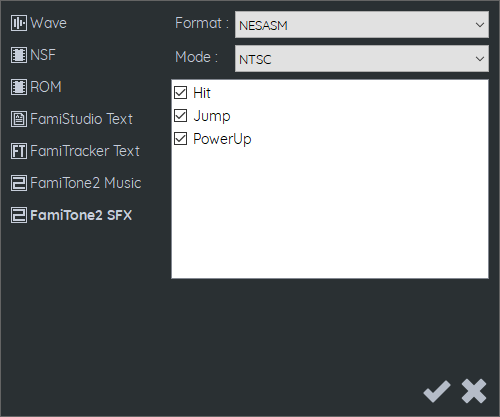
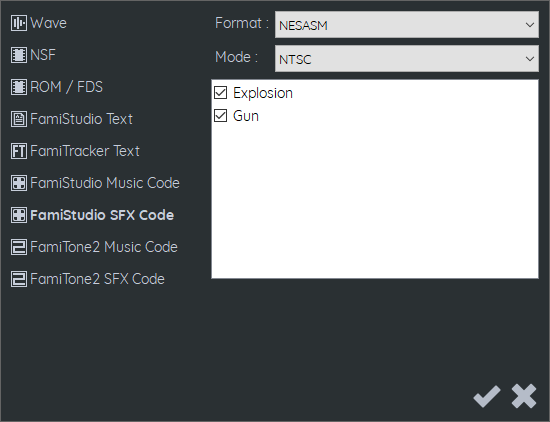
Doc update for 2.2.0.

Changed region(s): [[0.0, 0.0, 0.99, 0.6859], [0.0, 0.0312, 0.15, 0.1559], [0.84, 0.9041, 0.99, 0.9664]]

diff --git a/Docs/docs/importexport.md b/Docs/docs/importexport.md
@@ -7,7 +7,8 @@ The export dialog is access through the main toolbar.
 Only a single song can be exported at a time. You can choose the sample rate, it is recommended to stick to 44.1KHz if you want the sound to be exactly as you hear it in FamiStudio. Lower sample rate might lack high frequencies.
 
 The song can be exported in one of two modes:
-* Play Once : Will play the song until the end, ignoring the loop point.
+
+* Play N Times: Will play the song a specified number of times.
 * Duration : Will loop though the song for the specified number of seconds.
 
 ![](images/ExportWav.png#center)
@@ -24,15 +25,19 @@ Song that do not use any audio expansion can export as PAL and Dual mode, where 
 
 The maximum song size is approximately 28KB minus the size of the DPCM samples used. Note that this size are not printed anywhere and are not related to the size of the *.fms file. Best to simply try and see if it works.
 
-## ROM
+## ROM / FDS Disk
 
-Song(s) can be exported to a NES ROM file to play if back on an emulator or on actual hardware. The current iteration uses [Mapper 31](https://wiki.nesdev.com/w/index.php/INES_Mapper_031) which is supported by most emulators and the [Everdrive N8](https://krikzz.com/store/home/31-everdrive-n8-nes.html). You can then copy the ROM to an SD card and listen to it on actual hardware. Note that expansion audio is not supported with this mapper.
+Song(s) can be exported to a NES ROM file or a Famicom Disk System disk to play if back on an emulator or on actual hardware. 
+
+For ROM export, the current iteration uses [Mapper 31](https://wiki.nesdev.com/w/index.php/INES_Mapper_031) which is supported by most emulators and the [Everdrive N8](https://krikzz.com/store/home/31-everdrive-n8-nes.html). You can then copy the ROM to an SD card and listen to it on actual hardware. Note that expansion audio is not supported with this mapper.
 
 ![](images/Rom.png#center)
 
-The user interface is very simple, pressing left/right on the D-PAD will change the current track. Track/song names will be truncated to 28 characters.
+The user interface is very simple, pressing left/right on the D-PAD will change the current track. Track/song names will be truncated to 28 characters. For something a lot more customizable, check out [EZNSF](https://github.com/bbbradsmith/eznsf) by Brad Smith.
 
-For something a lot more customizable, check out [EZNSF](https://github.com/bbbradsmith/eznsf) by Brad Smith.
+For FDS export, the process is very similar and will output a FDS disk image instead of a ROM. It has been tested on actual hardware using the [FDSStick](https://3dscapture.com/fdsstick/). Songs are loaded on demand from the disk, so switching tracks will be a bit slower on FDS than on a ROM. 
+
+![](images/FdsExport.png#center)
 
 ## FamiTracker Text
 
@@ -144,6 +149,10 @@ DPCMMapping | Note | Yes | Piano note to map the sample to (Between C1 and D6).
 | Sample | Yes | Name of the DPCMSample to map.
 | Pitch | | Pitch of the sample.
 | Loop | | True or False.
+Arpeggio | Name | Yes | Name of the arpeggio.
+| Length | Yes | Length of the arpeggio note sequence, 0 to 255.
+| Loop | Yes | The loop point of the envelope.
+| Values | Yes | Coma separated values of the arpeggio -64 to 63 range.
 Instrument | Name | Yes | Name of the instrument.
 | Expansion | | Expansion audio of the instrument: VRC6, VRC7, FDS, MMC5, N163, S5B
 | FdsWavePreset | | (FDS instrument only) Sine, Triangle, Sawtooth, Square 50%, Square 25%, Flat or Custom.
@@ -158,7 +167,7 @@ Instrument | Name | Yes | Name of the instrument.
 | Vrc7Patch | | (VRC7 instrument only) 0 to 15.
 | Vrc7Reg{1 to 8} | | (VRC7 instrument only, if Vrc7Patch is 0) Values of the 8 custom patch registers.
 Envelope | Type | Yes | Volume, Arpeggio, Pitch, DutyCycle, FDSWave, FDSMod or N163Wave.
-| Length | | Length of the envelope, 0 to 255.
+| Length | Yes | Length of the envelope, 0 to 255.
 | Loop | | The loop point of the envelope.
 | Release | | (Volume envelope only) The release point of the envelope.
 | Relative | | (Pitch envelope only) True or False.
@@ -180,6 +189,7 @@ Pattern | Name | Yes | Name of the pattern.
 Note | Time | Yes | The frame (or note) number inside the pattern where this note is.
 | Value | | Note from C0 to B7, Stop or Release.
 | Instrument | | (Only if note has a musical value, from C0 to B7) Name of the instrument to use.
+| Arpeggio | | Optional, name of the arpeggio to use.
 | Attack | | If the note has an attack, True of False.
 | Volume | | The volume of the note, 0 to 15.
 | VibratoSpeed | | The Vibrato speed, 0 to 12.
@@ -191,9 +201,9 @@ Note | Time | Yes | The frame (or note) number inside the pattern where this not
 PatternInstance | Time | Yes | Index of the column of patterns where to place this instance.
 | Pattern | Yes | Name of the pattern to instantiate.
 
-## FamiTone2 Music
+## FamiStudio / FamiTone2 Music Code
 
-Exporting to FamiTone2 works in the same way as the command line tools provided by Shiru. It will generate assembly code that can be included in your homebrew project and played using the FamiTone2 sound engine. 
+Exporting music to the [FamiStudio Sound Engine](soundengine.md) or [FamiTone2](https://shiru.untergrund.net/code.shtml) work very similarely. It will generate assembly code that can be included in your homebrew project and played using the FamiTone2 sound engine. 
 
 ![](images/ExportFamiTone2.png#center)
 
@@ -201,13 +211,9 @@ When exporting file in separate files, you can specific a name format template f
 
 When exporting as a single file (non-separate), you will be prompt to name the output assembly file. If any of the exported songs uses DPCM samples, a .dmc file of the same name will also be outputted.
 
-If you are using the FamiStudio tempo mode and wish to have correct PAL playback in you homebrew game, please check out this custom version of FamiTone2 (named FamiTone2FS) that supports it:
+## FamiStudio / FamiTone2 Sound Effect Code
 
-[https://github.com/BleuBleu/FamiTone2FS](https://github.com/BleuBleu/FamiTone2FS)
-
-## FamiTone2 Sound Effect
-
-The same goes for sound effect export. It should work very similarly as original FamiTone 2 tools provided by Shiru. In this mode, one song is one sound effect, so songs should be very short. Unlike the FamiTone2 music format which only support a subset of all the FamiTracker/FamiStudio features, here any feature (except DPCM samples) can be used and the sound effect should export correctly.
+The same goes for sound effect export. In this mode, one song is one sound effect, so songs should be very short. Unlike the FamiStudio/FamiTone2 music format which only support a subset of all the FamiTracker/FamiStudio features, here any feature (except DPCM samples) can be used and the sound effect should export correctly.
 
 ![](images/ExportFamiTone2SFX.png#center)
 
@@ -265,4 +271,8 @@ In the example below, we can imagine that the notes on the right were all using 
 
 Only features that are supported by FamiStudio will be imported. Things like hardware sweeps & advanced DPCM manipulations will all be ignored.
 
+# Error Log
 
+When importing/exporting from/to specific format, an error log may appear providing a list of warnings/errors that occured during the process. Please pay attention to these as they may explain why your song sound differently than intended.
+
+![](images/ErrorLog.png#center)

diff --git a/Docs/docs/pianoroll.md b/Docs/docs/pianoroll.md
@@ -29,6 +29,25 @@ Clicking a pattern in the sequencer will scroll the piano roll to its location. 
 
 Right-clicking deletes a note.
 
+## Recoding mode
+
+Recording mode is another way to input notes and is enabled by pressing the record button on the toolbar. Recording mode allows inputting notes using a MIDI controller or using a piano-type layout on the QWERTY keyboard. This layout is very similar to what FamiTracker uses. Note that this is not a "real-time" recording mode, simply a note-by-note input mode.
+
+![](images/QWERTY.png#center)
+
+The QWERTY keyboard input will give you a range of approximately 2.5 octaves. By default, this will go from C3 to C5 but it can be moved up/down by pressing **Page Up** and **Page Down**. Which keyboard key maps to which piano key will be displayed in the piano roll. 
+
+![](images/RecordingPiano.png#center)
+
+When recording mode is active, the seek bar will turn red. Each note you input will be snapped to the current snap precision (see next section for info about snapping) and the seek bar will advance to the next snapping position. 
+
+There are a few other special keys that are enabled when recording mode is activated:
+
+* **Backspace**: moves back by 1 note (or snapping interval), erasing any note inside the interval. 
+* **Tab**: Advances by 1 note (or snapping interval), not recording anything.
+* **1**: Inserts a stop note and advances.
+* **Page Up/Down**: Moves the octave range that can be inputted using the QWERTY keyboard up/down.
+
 ## Snapping
 
 Snapping can be toggle by clicking the little magnet in the top-left corner of the piano roll. **SHIFT+S** can also be used to quickly toggle snapping on/off. The precision of the snapping can be changed by left/right clicking the number of using the mousewheel over the number or magnet icon. 
@@ -70,6 +89,16 @@ Slide notes are notes that start at a given pitch (the pitch of the note) and sl
 ![](images/SlideNote.png#center)
 
 Slide notes garantees that the target pitch will be reached by the end of the note (end of the triangle) but this might happen a bit earlier than the visual repesentation suggests. Especially in the higher pitches. This is due to the fact that the pitch calculations are all integer-based (with 1-bit of fraction) and it is often impossible to get the exact required slope to reach the pitch at the exact time. 
+
+## Arpeggios
+
+Arpeggios (not to be confused with arpeggio instrument envelopes) are typically used to simulate chords by playing changing notes very rapidly. A note can optionally have an arpeggio associated to it, just like it has an instrument associated to it. When an arpeggio is used, the notes used by this arpeggio will be displayed in a semi-transparent way and the extra notes will take the color of the associated arpeggio. Note that in order to keep things simple, the individual sequence of notes inside the arpeggio will not be displayed.
+
+![](images/Arpeggio.png#center)
+
+You can change which arpeggio is associated with a note the same way to can replace an instrument. You can select a new arpeggio and click on an existing note. Or you can select a few notes and drag and drop an arpeggio from the Project Explorer on to the selection.
+
+If an instrument uses an arpeggio envelope and also uses an arpeggio chord, the chord will take over and completely override the arpeggio envelope of the instrument. 
 
 ## Selecting and editing notes
 

diff --git a/Docs/docs/instruments.md b/Docs/docs/instruments.md
@@ -1,6 +1,6 @@
 # Editing Instruments
 
-The project explorer displays the list of songs and instruments in the current project. This section is only going to cover editing of instruments. Please refer to the [Editing Songs & Project](song.md) section to learn how to edit project and song properties.
+The project explorer displays the list of songs and instruments in the current project. This section is only going to cover editing of instruments and arpeggios. Please refer to the [Editing Songs & Project](song.md) section to learn how to edit project and song properties.
 
 ![](images/ProjectExplorer.png#center)
 
@@ -67,10 +67,30 @@ Clicking on an envelope button and dragging it on another instrument will copy t
 
 Right-clicking on the icon of an envelope deletes it.
 
-## Editing DPCM samples
+# Editing DPCM samples
 
 Clicking on the little icon next to the DPCM samples in the project explorer will open the piano roll in DPCM edition mode.
 
 ![](images/EditDPCM.png#center)
 
 Clicking anywhere on a note that does not have a DPCM sample associated will prompt you to open a .DMC file. No DMC edition tool is provided, you can use [FamiTracker](http://famitracker.com/), [RJDMC](http://forums.famitracker.com/viewtopic.php?t=95) or any other tool. DPCM samples are assumed to have unique names and 2 samples with the same name will be assume to be the same. Double-clicking on an existing sample edits its pitch and toggle loop. Note that only notes between C1 and D6 are allowed to have DPCM samples.
+
+# Editing Arpeggios
+
+Arpeggios (not to be confused with arpeggio instrument envelopes) are typically used to simulate chords by playing changing notes very rapidly. They work in the exact same way as arpeggio instrument envelopes, but they are not bound to any specific instrument. For example, if you define a "Major chord" arpeggio that repeats a sequence 0-4-7 of notes, you can then re-use this arpeggio on any instrument later on. Saving you the trouble or either inputting many tiny notes, or creating many instruments for each chord.
+
+Arpeggios are handled in a very similar way to instrument. You can add a new arpeggio by click on the **+** button of the **Arpeggios** section. To edit the sequence of note you can then click of the little note icon on the right side of the arpeggio button. 
+
+![](images/EditArpeggio.png#center)
+
+You can also assign a name and a color to each arpeggio by double-clicking on an arpeggio. This color will be displayed in the piano roll when the arpeggio is used.
+
+![](images/EditArpeggioProperties.png#center)
+
+## Replacing arpeggios by another
+
+Much like instrument, you can replace every usage of an arpeggio by another by simply dragging an arpeggio on to another. FamiStudio will prompt you to confirm the replacement.
+
+## Copying arpeggios
+
+You can also copy the sequence of note from one arpeggio to another by dragging the little note icon (the one on the right side) on to another arpeggio. 

diff --git a/Docs/docs/soundengine.md b/Docs/docs/soundengine.md
@@ -22,7 +22,7 @@ The engine has a basic set of features, as well as a few extra toggeable feature
 
 The basic feature set that is always available in engine is:
 
-* Support for the first four 2A03 channels (2 squares, triangle and noise channel), DPCM channel is a toggeable feature.
+* Support for the first four 2A03 channels (2 squares, triangle and noise channel).
 * Support for the full 96 notes (C0 to B7).
 * Instruments with duty cycle, volume, pitch and arpeggio envelopes.
 	* Absolute and relative pitch envelopes.

diff --git a/Docs/docs/basics.md b/Docs/docs/basics.md
@@ -144,6 +144,6 @@ Some keyboard shortcuts specific to the piano roll:
 * **~ (Tilde)**: Expand/collapse the effect panel.
 * **Shift+S**: Toggles snapping.
 
-When recording mode is active, some of the keys will be remapped in the shaped of a piano so you can input notes.
+When recording mode is active, some of the keys will be overriden to support piano input.
 
 ![](images/QWERTY.png#center)

diff --git a/Docs/docs/cleanup.md b/Docs/docs/cleanup.md
@@ -18,5 +18,8 @@ Here are the operations that can be performed:
 
 * **Delete unused samples** : Samples without a single note played will be deleted.
 
+* **Delete unused arpeggios** : Arpeggios that are not used by a single note will be deleted.
+
+
 
 
